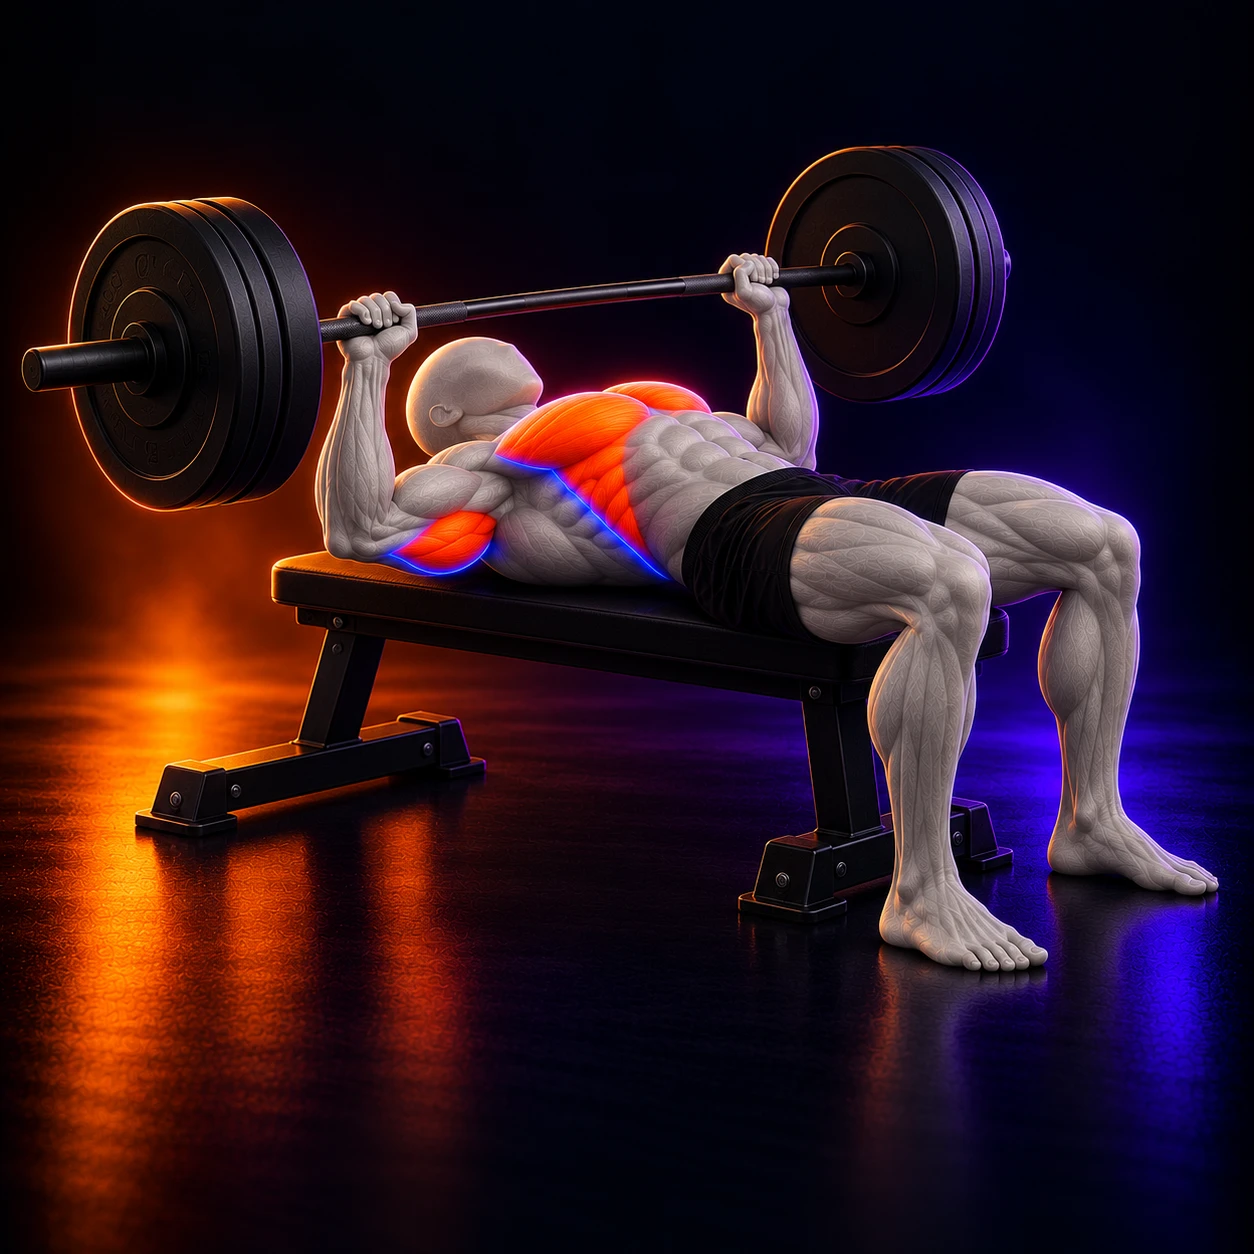
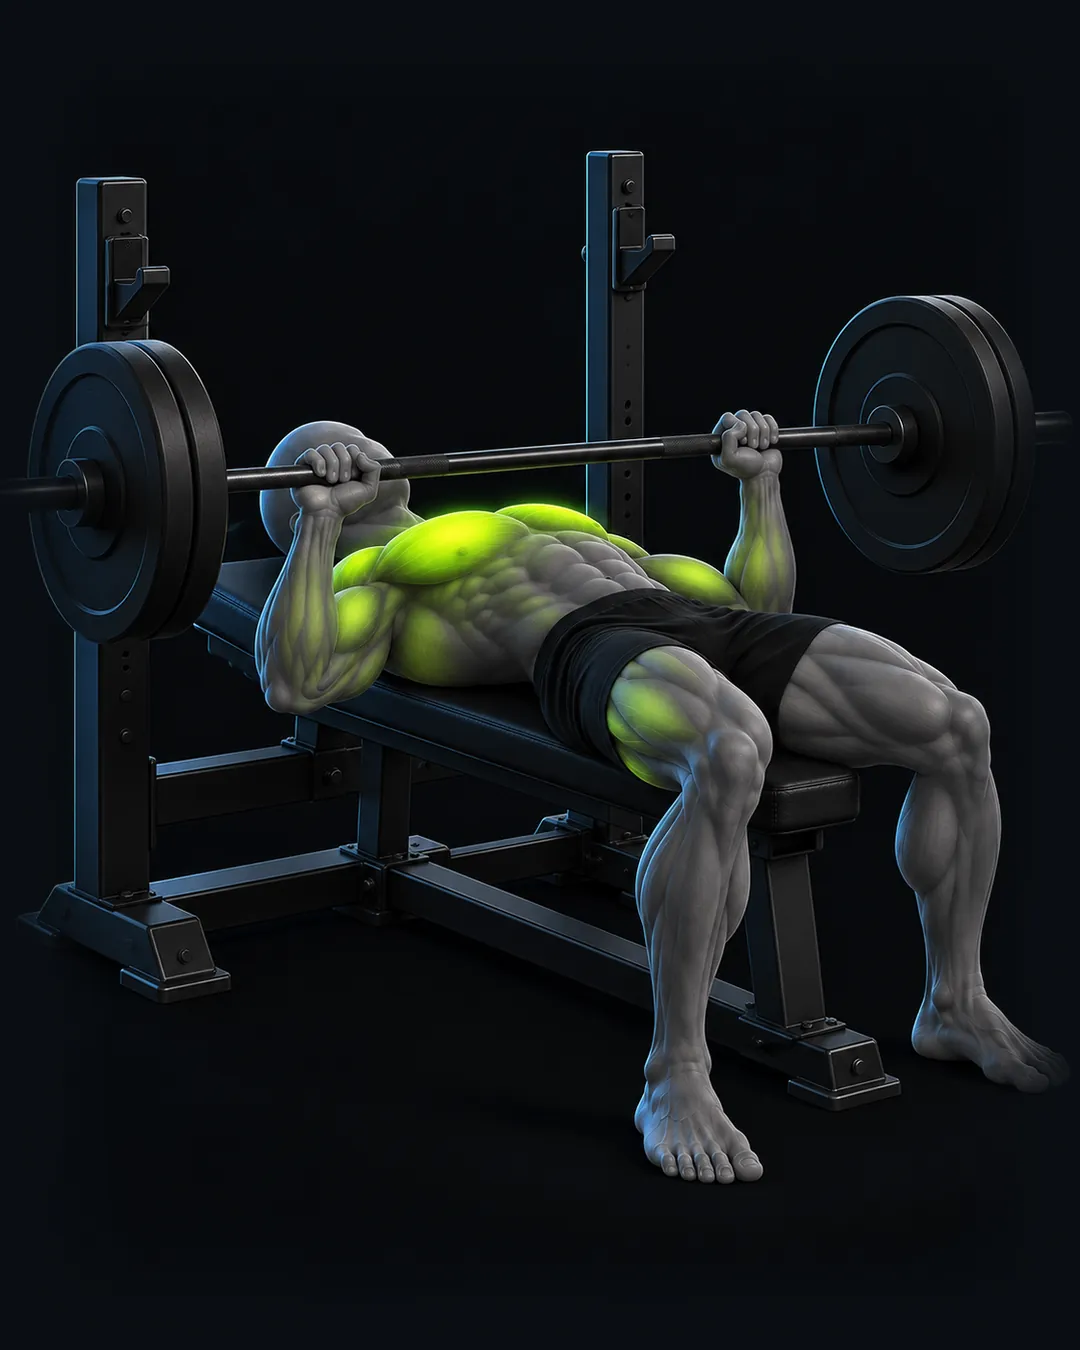
Estilo nuevo: press banca plano y sentadilla búlgara corregidas
La barra del press de banca ahora baja al pecho, y en la búlgara cada
mancuerna se ve en su mano. Guía: 11 ejercicios listos, 14 por rehacer.

Claude-Session: https://claude.ai/code/session_01LxDcWEqJvHuS5S3y2B3UNH

diff --git a/docs/IMAGENES-EJERCICIOS.md b/docs/IMAGENES-EJERCICIOS.md
@@ -115,8 +115,8 @@ Hay **226 ejercicios** en el catálogo:
 
 | Estado | Ejercicios | Qué significa |
 |---|---|---|
-| **Listo** | 9 | En el estilo nuevo: sentadilla goblet (imagen y video) y 8 ejercicios con imagen. |
-| **Rehacer** | 16 | Tienen imagen, pero en el estilo anterior. |
+| **Listo** | 11 | En el estilo nuevo: sentadilla goblet (imagen y video) y 10 ejercicios con imagen. |
+| **Rehacer** | 14 | Tienen imagen, pero en el estilo anterior. |
 | **Falta** | 201 | No tienen imagen. |
 
 Sugerencia de orden: primero los **Rehacer**, que ya aparecen en los planes, y luego los ejercicios compuestos de cada zona.
@@ -142,7 +142,7 @@ Sugerencia de orden: primero los **Rehacer**, que ya aparecen en los planes, y l
 |---|---|---|---|
 | Sentadilla goblet | `sentadilla-goblet` | Cuádriceps · Glúteo | **Listo** (imagen + video) |
 | Desplante | `desplante` | Cuádriceps · Glúteo | Rehacer (estilo anterior) |
-| Sentadilla búlgara | `sentadilla-bulgara` | Cuádriceps · Glúteo | Rehacer (estilo anterior) |
+| Sentadilla búlgara | `sentadilla-bulgara` | Cuádriceps · Glúteo | **Listo** (imagen) |
 | Peso muerto rumano con mancuernas | `peso-muerto-rumano-con-mancuernas` | Femorales · Glúteo | Falta |
 | Press inclinado con mancuernas | `press-inclinado-con-mancuernas` | Pecho superior | Falta |
 | Press plano con mancuernas | `press-plano-con-mancuernas` | Pecho mayor | Falta |
@@ -290,7 +290,7 @@ Sugerencia de orden: primero los **Rehacer**, que ya aparecen en los planes, y l
 |---|---|---|---|
 | Hip thrust | `hip-thrust` | Glúteo mayor | Falta |
 | Hiperextensión 45° | `hiperextension-45` | Erectores · Glúteo | Falta |
-| Press banca plano | `press-banca-plano` | Pecho mayor · Tríceps | Rehacer (estilo anterior) |
+| Press banca plano | `press-banca-plano` | Pecho mayor · Tríceps | **Listo** (imagen) |
 | Press inclinado con barra | `press-inclinado-con-barra` | Pecho superior | Falta |
 | Press francés con barra Z | `press-frances-con-barra-z` | Tríceps (porción larga) | Falta |
 | Press banca agarre cerrado | `press-banca-agarre-cerrado` | Tríceps · Pecho | Falta |
